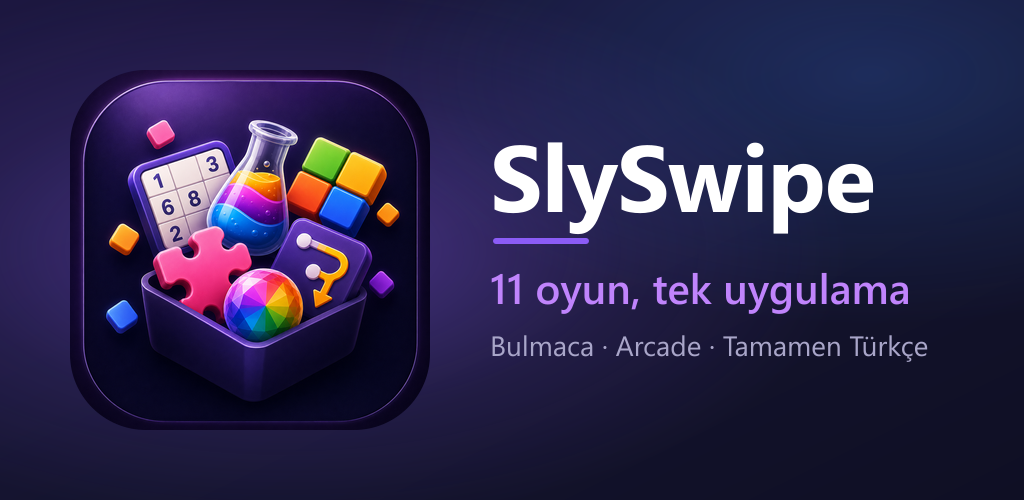
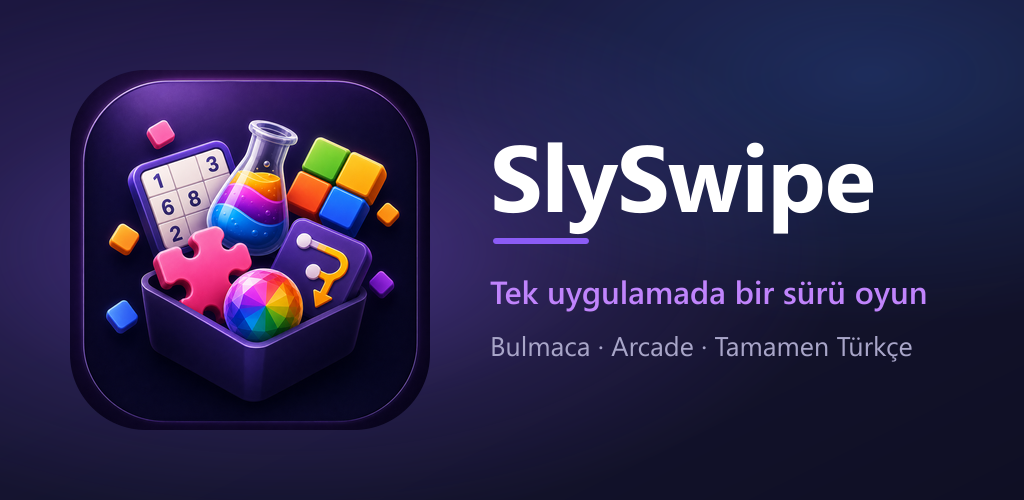
store: sabit oyun sayisi metinlerden ve grafiklerden cikarildi + Play simgesi
Sahibin tespiti: oyun sayisi guncellemelerle artacak, sabit bir "11 oyun"
her yeni oyunda magaza metnini, one cikan grafigi ve ekran goruntusu
basligini YALANCI yapar. Depoda ayni ders zaten kayitli: Kesfet'teki
"yeni oyun" isareti sabit bir bayrak degil TARIHE baglanmisti, cunku
"bayragi sonradan birinin kaldirmasi gerekir ve kimse kaldirmaz".

Sayi uc yerden birden cikti: one cikan grafik, 01_hub ekran goruntusu
basligi ve magaza metinleri. Yerine "Tek uygulamada bir suru oyun";
tur bilgisi ALT SATIRA tasindi ki baslik vurucu kalirken magazada
"hangi tur oyun?" sorusu cevapsiz kalmasin. Tam aciklamadaki liste
basligi da "11 OYUN" yerine "SU AN OYNAYABILECEKLERIN" — listeye
eklemek artik metni bozmuyor.

PUNTO ARTIK KUTUYA GORE HESAPLANIYOR (fitSize). Sabit punto yazip goze
guvenmek bir kez tasmaya yol acti: yeni alt satir 40 punto ile sag
kenardan tasip "...oyur" diye kirpildi. Basliklar urun karari oldugu
icin yine degisecek; her degisiklikte puntoyu elle ayarlamak gerekirse
er ya da gec biri unutur.

PLAY UYGULAMA SIMGESI eklendi: assets/store/play-icon-512.png.
Iki kural birbirinin TERSI ve karistirilmaya musait — ekran goruntusu
alfa OLMAYACAK (24-bit), uygulama simgesi alfa OLACAK (32-bit). Mevcut
assets/icons/icon-512.png 24-bit ve palette:true ile uretilmis; o dosya
uygulamanin KENDI ikonu icin dogru (SW precache'inde, her surum
bump'inda yeniden iniyor) ama magaza simgesi bir kez yukleniyor, orada
[…]

Changed region(s): [[0.4688, 0.54, 0.9062, 0.63], [0.4688, 0.66, 0.9062, 0.72]]

diff --git a/tools/store-graphics.js b/tools/store-graphics.js
@@ -35,6 +35,24 @@ const W = 1024, H = 500;
 // kenardan 60 px'ten yakin durmuyor.
 const LOGO = 360, LOGO_X = 70, LOGO_Y = (H - LOGO) / 2;
 const TEXT_X = LOGO_X + LOGO + 60;
+const TEXT_MAX = W - TEXT_X - 55;   // metnin kullanabilecegi genislik
+
+// METIN KUTUYA SIGDIRILIR, PUNTO SABIT YAZILMAZ.
+// Sabit punto yazip goze guvenmek bir kez tasmaya yol acti: alt satir
+// "Tek uygulamada bir suru oyun" 40 punto ile sag kenardan tasti ve
+// "...oyur" diye kirpildi. Basliklar urun karari oldugu icin ileride
+// yine degisecek; her degisiklikte punto elle ayarlanacaksa er ya da
+// gec biri unutur.
+//
+// Genislik KESTIRILIYOR (gercek font metrigi yok): bu ailede ortalama
+// karakter genisligi ~0.52 em. Kestirim KASITLI OLARAK comert tarafta —
+// gercekte sigan bir metni bir punto kucultmek zararsiz, tasan bir
+// metni sigdi sanmak degil.
+function fitSize(text, maxWidth, startSize, minSize) {
+  let s = startSize;
+  while (s > minSize && [...String(text)].length * 0.52 * s > maxWidth) s -= 1;
+  return s;
+}
 
 async function featureGraphic() {
   // ── Zemin: marka gradyani + accent parlamasi ──
@@ -78,15 +96,28 @@ async function featureGraphic() {
     .toBuffer();
 
   // ── Metin ──
-  // Basligin altindaki cizgi accent'ten; "11 oyun" satiri urunun tek
-  // cumlelik vaadi ve magazada kisa aciklamayla AYNI seyi soylemeli.
+  // Alt satir urunun tek cumlelik vaadi ve magazadaki KISA ACIKLAMAYLA
+  // ayni seyi soylemeli. Sayi ICERMIYOR (2026-08-13, sahip karari):
+  // sabit bir oyun sayisi her yeni oyunda grafigi yalanci yapar ve
+  // guncellenmesi birinin aklinda kalmasina kalir.
+  const BRAND = 'SlySwipe';
+  const SUB   = 'Tek uygulamada bir sürü oyun';
+  const TERT  = 'Bulmaca · Arcade · Tamamen Türkçe';
+
+  // Puntolar KUTUYA GORE hesaplaniyor, elle yazilmiyor — gerekcesi
+  // fitSize'in yaninda. Sabit yazildiginda SUB satiri sag kenardan
+  // tasip "...oyur" diye kirpilmisti.
+  const fBrand = fitSize(BRAND, TEXT_MAX, 94, 60);
+  const fSub   = fitSize(SUB,   TEXT_MAX, 40, 24);
+  const fTert  = fitSize(TERT,  TEXT_MAX, 28, 18);
+
   const text = Buffer.from(`<svg width="${W}" height="${H}" xmlns="http://www.w3.org/2000/svg">
     <g font-family="Segoe UI, Arial, Helvetica, sans-serif">
-      <text x="${TEXT_X}" y="212" font-size="94" font-weight="bold" fill="#ffffff"
-            letter-spacing="-1">SlySwipe</text>
+      <text x="${TEXT_X}" y="212" font-size="${fBrand}" font-weight="bold" fill="#ffffff"
+            letter-spacing="-1">${BRAND}</text>
       <rect x="${TEXT_X + 3}" y="238" width="96" height="6" rx="3" fill="${ACCENT}"/>
-      <text x="${TEXT_X}" y="304" font-size="42" font-weight="600" fill="${ACCENT_LIGHT}">11 oyun, tek uygulama</text>
-      <text x="${TEXT_X}" y="356" font-size="28" font-weight="400" fill="#a9a6c9">Bulmaca &#183; Arcade &#183; Tamamen T&#252;rk&#231;e</text>
+      <text x="${TEXT_X}" y="304" font-size="${fSub}" font-weight="600" fill="${ACCENT_LIGHT}">${SUB}</text>
+      <text x="${TEXT_X}" y="356" font-size="${fTert}" font-weight="400" fill="#a9a6c9">${TERT}</text>
     </g>
   </svg>`);
 
@@ -113,4 +144,49 @@ async function featureGraphic() {
   }
 }
 
-featureGraphic().catch(e => { console.error(e); process.exit(1); });
+// ── Play Console uygulama simgesi ────────────────────────────────────
+// Play 512x512 ve **32-bit** PNG istiyor (en fazla 1 MB).
+//
+// BURADAKI AYRIM KAFA KARISTIRICI ve iki kural birbirinin TERSI:
+//   • ekran goruntusu → alfa OLMAYACAK (24-bit)
+//   • uygulama simgesi → alfa OLACAK   (32-bit)
+// Bu yuzden simge ensureAlpha() ile yaziliyor; ekran goruntusu hatti
+// ise removeAlpha() ile (bkz. tools/store-screenshots.js).
+//
+// Kaynak assets/logo.png (1254 px). assets/icons/icon-512.png KULLANILMIYOR:
+// o dosya palette:true ile uretildi (8-bit indeksli, 90 KB) — uygulamanin
+// kendi ikonu icin dogru tercih, cunku SW precache'inde ve her surum
+// bump'inda yeniden iniyor. Ama magaza simgesi bir kez yukleniyor ve
+// boyut onemsiz; orada gradyanlari indekslemenin bedelini odemeye gerek yok.
+//
+// Kose yuvarlatma YOK: Play kendi maskesini uyguluyor. Onceden yuvarlatmak
+// cift yuvarlama ya da kenarda ince bir halka uretir.
+async function appIcon() {
+  const out = await sharp(path.join(ROOT, 'assets', 'logo.png'))
+    .resize(512, 512, { fit: 'cover' })
+    .ensureAlpha()                     // 32-bit sart
+    .png({ compressionLevel: 9 })
+    .toBuffer();
+
+  fs.mkdirSync(OUT_DIR, { recursive: true });
+  const file = path.join(OUT_DIR, 'play-icon-512.png');
+  fs.writeFileSync(file, out);
+
+  const m = await sharp(out).metadata();
+  const kb = Math.round(out.length / 1024);
+  const problems = [];
+  if (m.width !== 512 || m.height !== 512) problems.push('512x512 degil');
+  if (!m.hasAlpha) problems.push('alfa kanali yok (32-bit degil)');
+  if (out.length > 1024 * 1024) problems.push('1 MB ustu');
+
+  console.log('  ' + path.relative(ROOT, file).replace(/\\/g, '/') +
+              ' — ' + m.width + 'x' + m.height +
+              ', kanal ' + m.channels + ', ' + kb + ' KB' +
+              (problems.length ? '   HATA: ' + problems.join(', ') : '   (Play uyumlu)'));
+  if (problems.length) process.exit(1);
+}
+
+(async () => {
+  await featureGraphic();
+  await appIcon();
+})().catch(e => { console.error(e); process.exit(1); });

diff --git a/tools/store-screenshots.js b/tools/store-screenshots.js
@@ -64,7 +64,11 @@ const CROP_BOTTOM = 96;
 // olmalı: ilk iki kare dönüşümün çoğunu belirliyor, o yüzden ürünün
 // FARKI (Keşfet akışı / oyun çeşitliliği) başa konur.
 const CAPTIONS = {
-  '01_hub':       { title: '11 Oyun, Tek Uygulama',      sub: 'Kaydır, keşfet, oyna' },
+  // SAYI YOK ve bu bilinçli (2026-08-13, sahip karari). Sabit bir oyun
+  // sayisi her yeni oyunda basligi yalanci yapar ve guncellemesi birinin
+  // aklinda kalmasina bagli kalir — Kesfet'teki "yeni oyun" rozetinin
+  // sabit bayrak yerine TARIHE baglanmasiyla ayni gerekce.
+  '01_hub':       { title: 'Tek Uygulamada Bir Sürü Oyun', sub: 'Bulmaca ve arcade — yeni oyunlar düzenli eklenir' },
   '02_gameplay1': { title: 'Parmağınla Sürükle',          sub: 'Kelimeyi bul — çapraz da serbest' },
   '03_gameplay2': { title: 'Blokları Yerleştir',          sub: 'Satırları temizle, kombo yap' },
   '04_gameplay3': { title: 'Her Gün Yeni Bulmaca',        sub: 'Günlük meydan okuma herkese aynı' },

diff --git a/docs/PLAY_STORE_LISTING.md b/docs/PLAY_STORE_LISTING.md
@@ -3,7 +3,7 @@
 Play Console'a **kopyala-yapıştır** için hazır metinler ve form cevapları.
 Kaynak burasıdır: bir metin değişirse önce bu dosya güncellenir, sonra Console.
 
-Paket: `com.skyroonlabs.slyswipe` · Sürüm: `1.68.0` (`versionCode 2`)
+Paket: `com.skyroonlabs.slyswipe` · Sürüm: `1.69.2` (`versionCode 7`)
 
 ---
 
@@ -27,7 +27,7 @@ SlySwipe: Bulmaca & Oyunlar
 ## 2. Kısa açıklama (en fazla 80 karakter)
 
 ```
-11 oyun tek uygulamada. Sudoku'dan Yılan'a, kendi hızında, tamamen Türkçe.
+Tek uygulamada bir sürü oyun. Bulmacadan arcade'e, kendi hızında, Türkçe.
 ```
 
 ---
@@ -35,7 +35,7 @@ SlySwipe: Bulmaca & Oyunlar
 ## 3. Tam açıklama (en fazla 4000 karakter)
 
 ```
-SlySwipe — 11 oyun, tek uygulama.
+SlySwipe — tek uygulamada bir sürü oyun.
 
 Bulmaca sevenler için sakin ve akıcı bir oyun merkezi. Sayaç yok, süre baskısı
 yok: istediğin kadar düşün, istediğin oyunu istediğin an bırak.
@@ -45,7 +45,7 @@ Yeni bir oyun aramak zorunda değilsin. Keşfet sekmesinde parmağını kaydır,
 oynanabilir önizlemeler önüne gelsin. Beğendiğin kartta "Oyna"ya bas, doğrudan
 oyuna gir. Her tur farklı bir oyun — kataloğun tamamı birkaç kaydırmada.
 
-▸ 11 OYUN
+▸ ŞU AN OYNAYABİLECEKLERİN
 
 Bulmaca
 • Sudoku — üç zorluk, günlük bulmaca, hata hakkı sistemi
@@ -53,7 +53,7 @@ Bulmaca
 • İksir Sıralama — renkleri tüplerde ayır, hamle limitine dikkat et
 • Ok Bulmaca — okları sıkışmadan tahtadan çıkar
 • Akış Bağlantı — 70 seviye, aynı renkleri kesişmeden birleştir
-• Kelime Avı — ızgarada gizli kelimeleri bul
+• Kelime Avı — parmağınla sürükle, gizli kelimeleri bul
 • Hafıza Oyunu — kart eşleştirme
 • 2048 — sayıları birleştir
 • Resim Kaydır — karışan fotoğrafı yerine oturt, sonsuz seviye
@@ -93,7 +93,7 @@ https://onur33360-dev.github.io/slyswipe/gizlilik.html
 
 | Varlık | Boyut | Durum |
 |---|---|---|
-| Uygulama ikonu | 512×512 PNG | ✅ `assets/icons/icon-512.png` |
+| Uygulama ikonu | 512×512 **32-bit** PNG | ✅ `assets/store/play-icon-512.png` |
 | Öne çıkan grafik | 1024×500 PNG/JPEG | ✅ `assets/store/feature-graphic-1024x500.png` |
 | Telefon ekran görüntüsü | min 2, max 8 · en az 320 px | ✅ **8 adet** → `screenshots/store-ready/` |
 
